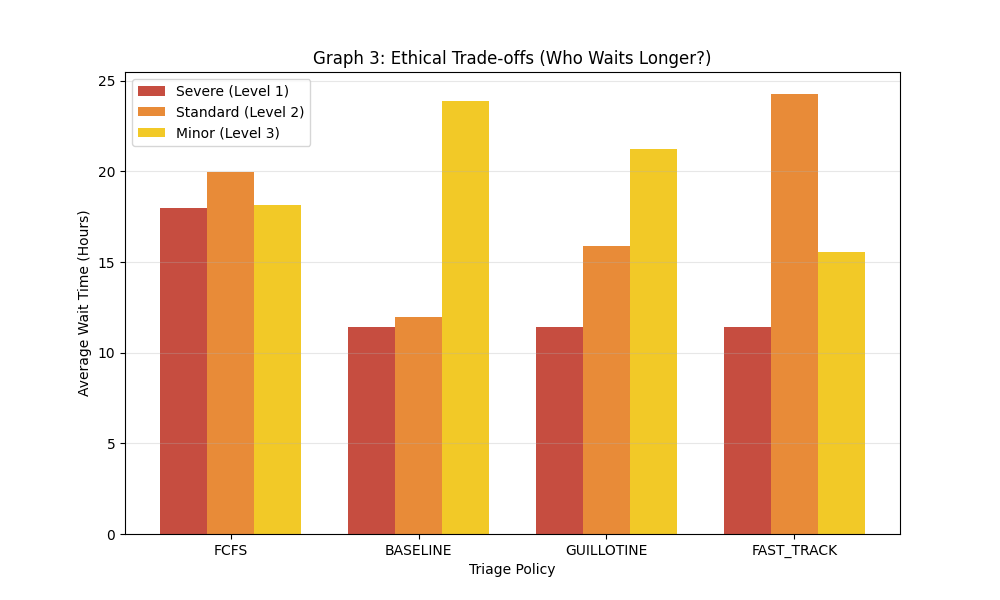
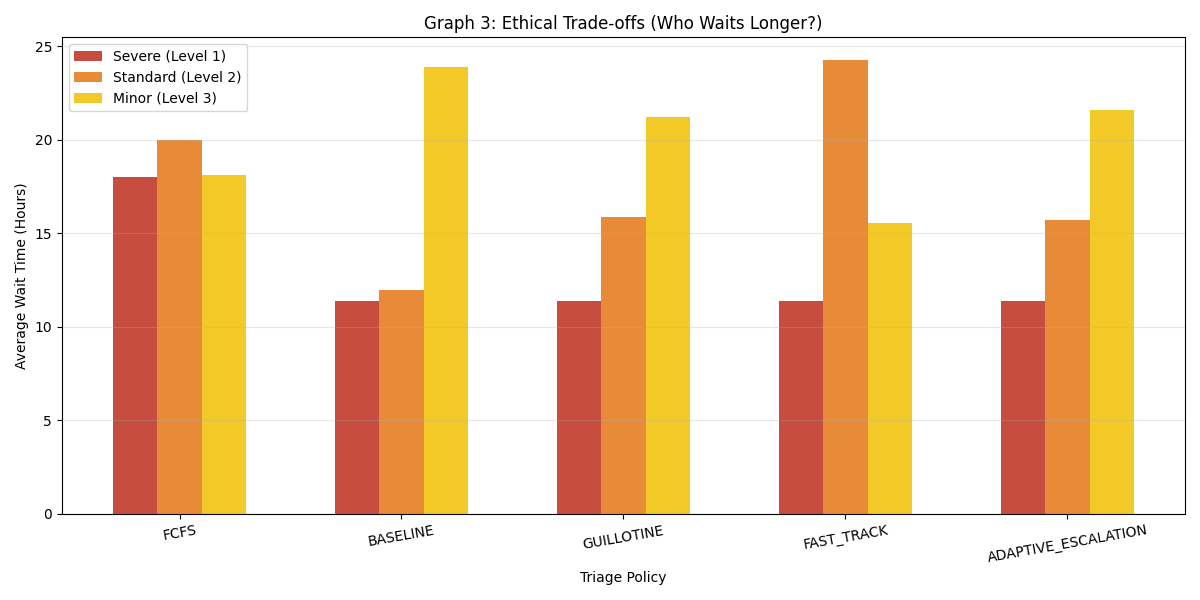
vfinal provincial fair

diff --git a/_v2_engine.py b/_v2_engine.py
@@ -1,7 +1,7 @@
 import random
 import numpy as np
 import matplotlib.pyplot as plt
-import seaborn as sns  # Added for the beautiful density curve
+import seaborn as sns
 from dataclasses import dataclass
 
 # ==========================
@@ -14,6 +14,9 @@ CONFIG = {
     'TRIAGE_ERROR_RATE': 0.10, 
     'SHORT_THRESHOLD': 14.0,   
     'LONG_THRESHOLD': 32.0,    
+    # New policy thresholds
+    'ESCALATION_L2_THRESHOLD': 8,   # L2 escalates after 8h wait
+    'ESCALATION_L3_THRESHOLD': 15,  # L3 escalates after 15h wait
 }
 
 @dataclass
@@ -40,25 +43,25 @@ class EREngineV3:
         self.history_queue_length = [] 
         
     def spawn_patients(self, count, offset_time=None):
-            for _ in range(int(count)):
-                p_id = len(self.queue) + len(self.beds) + len(self.completed)
+        for _ in range(int(count)):
+            p_id = len(self.queue) + len(self.beds) + len(self.completed)
+            
+            true_duration = random.lognormvariate(mu=np.log(10), sigma=0.6)
+            
+            if true_duration > CONFIG['LONG_THRESHOLD']: base_severity = 1
+            elif true_duration < CONFIG['SHORT_THRESHOLD']: base_severity = 3
+            else: base_severity = 2
                 
-                true_duration = random.lognormvariate(mu=np.log(10), sigma=0.6)
+            if random.random() < CONFIG['TRIAGE_ERROR_RATE']:
+                base_severity = random.choice([1, 2, 3])
                 
-                if true_duration > CONFIG['LONG_THRESHOLD']: base_severity = 1
-                elif true_duration < CONFIG['SHORT_THRESHOLD']: base_severity = 3
-                else: base_severity = 2
-                    
-                if random.random() < CONFIG['TRIAGE_ERROR_RATE']:
-                    base_severity = random.choice([1, 2, 3])
-                    
-                arr_time = self.env_time if offset_time is None else offset_time
-                p = Patient(p_id, arr_time, true_duration, base_severity)
+            arr_time = self.env_time if offset_time is None else offset_time
+            p = Patient(p_id, arr_time, true_duration, base_severity)
+            
+            if offset_time is not None:
+                p.wait_time = abs(offset_time)
                 
-                if offset_time is not None:
-                    p.wait_time = abs(offset_time)
-                    
-                self.queue.append(p)
+            self.queue.append(p)
 
     def sort_queue(self):
         if self.policy_mode == "FCFS":
@@ -76,12 +79,31 @@ class EREngineV3:
         elif self.policy_mode == "FAST_TRACK":
             def fast_track_priority(p):
                 if p.perceived_severity == 1: return 1
-                # ANTI-STARVATION FIX: 1.5 priority rescues Standard patients stuck > 24h
                 elif p.perceived_severity == 2 and p.wait_time > 24: return 1.5 
                 elif p.perceived_severity == 3: return 2
                 else: return 3 
                 
             self.queue.sort(key=lambda p: (fast_track_priority(p), -p.wait_time))
+
+        elif self.policy_mode == "ADAPTIVE_ESCALATION":
+            def adaptive_priority(p):
+                # L1: always top priority, no escalation needed
+                if p.perceived_severity == 1:
+                    return (0, -p.wait_time)
+                # L2: escalates to near-L1 priority after 8h
+                elif p.perceived_severity == 2:
+                    if p.wait_time >= CONFIG['ESCALATION_L2_THRESHOLD']:
+                        return (1, -p.wait_time)   # escalated L2
+                    else:
+                        return (2, -p.wait_time)   # standard L2
+                # L3: escalates after 15h, but still behind escalated L2
+                elif p.perceived_severity == 3:
+                    if p.wait_time >= CONFIG['ESCALATION_L3_THRESHOLD']:
+                        return (1.5, -p.wait_time) # escalated L3 (between L2 tiers)
+                    else:
+                        return (3, -p.wait_time)   # standard L3
+
+            self.queue.sort(key=adaptive_priority)
 
     def step(self):
         if self.env_time < len(self.schedule):
@@ -126,8 +148,8 @@ class EREngineV3:
 # 3. RUNNER & 6-GRAPH ANALYTICS
 # ==========================
 def run_v3_experiment(arrival_data):
-    policies = ["FCFS", "BASELINE", "GUILLOTINE", "FAST_TRACK"]
-    colors = ['#95a5a6', '#e74c3c', '#f39c12', '#2ecc71'] # Gray, Red, Orange, Green
+    policies = ["FCFS", "BASELINE", "GUILLOTINE", "FAST_TRACK", "ADAPTIVE_ESCALATION"]
+    colors = ['#95a5a6', '#e74c3c', '#f39c12', '#2ecc71', '#3498db'] # +Blue for new policy
     
     results_map = {}
     queue_history = {}
@@ -175,12 +197,10 @@ def run_v3_experiment(arrival_data):
         print(f"  Overall -> Median: {median:.1f}h | Avg: {avg:.1f}h | Max: {max_w:.1f}h | >24h: {bad_w}")
         print(f"  Critical-> Avg Wait for Severe Patients (Level 1): {crit_avg:.1f}h")
 
-    # ---------------------------------------------------------
     # GRAPH GENERATION (6 GRAPHS)
-    # ---------------------------------------------------------
     
     # Graph 1: The Boxplot
-    plt.figure(figsize=(10, 6))
+    plt.figure(figsize=(11, 6))
     bplot = plt.boxplot([results_map[p] for p in policies], tick_labels=policies, showfliers=False, patch_artist=True)
     for patch, color in zip(bplot['boxes'], colors):
         patch.set_facecolor(color)
@@ -188,10 +208,11 @@ def run_v3_experiment(arrival_data):
     plt.title("Graph 1: Spread of Wait Times (Middle 75%)")
     plt.ylabel("Wait Time (Hours)")
     plt.grid(True, alpha=0.3)
+    plt.tight_layout()
     plt.savefig("Graph1_Boxplot.png")
     
     # Graph 2: Waiting Room Size Over Time
-    plt.figure(figsize=(10, 6))
+    plt.figure(figsize=(11, 6))
     for i, pol in enumerate(policies):
         plt.plot(queue_history[pol], label=pol, linewidth=2, color=colors[i])
     plt.title("Graph 2: Waiting Room Congestion Over Time")
@@ -199,11 +220,12 @@ def run_v3_experiment(arrival_data):
     plt.ylabel("Patients in Waiting Room")
     plt.legend()
     plt.grid(True, alpha=0.3)
+    plt.tight_layout()
     plt.savefig("Graph2_Queue_Size.png")
     
     # Graph 3: Wait Time by Severity Level
-    plt.figure(figsize=(10, 6))
-    bar_width = 0.25
+    plt.figure(figsize=(12, 6))
+    bar_width = 0.2
     index = np.arange(len(policies))
     
     avg_sev1 = [np.mean(severity_waits[p][1]) for p in policies]
@@ -217,13 +239,14 @@ def run_v3_experiment(arrival_data):
     plt.xlabel('Triage Policy')
     plt.ylabel('Average Wait Time (Hours)')
     plt.title('Graph 3: Ethical Trade-offs (Who Waits Longer?)')
-    plt.xticks(index + bar_width, policies)
+    plt.xticks(index + bar_width, policies, rotation=10)
     plt.legend()
     plt.grid(axis='y', alpha=0.3)
+    plt.tight_layout()
     plt.savefig("Graph3_Severity_Tradeoff.png")
 
-    # Graph 4: Cumulative Distribution Function (CDF)
-    plt.figure(figsize=(10, 6))
+    # Graph 4: CDF
+    plt.figure(figsize=(11, 6))
     for i, pol in enumerate(policies):
         sorted_waits = np.sort(results_map[pol])
         yvals = np.arange(1, len(sorted_waits)+1) / len(sorted_waits) * 100
@@ -236,10 +259,11 @@ def run_v3_experiment(arrival_data):
     plt.legend()
     plt.grid(True, alpha=0.3)
     plt.xlim(0, 50) 
+    plt.tight_layout()
     plt.savefig("Graph4_Cumulative_Success.png")
 
-    # Graph 5: The >24h Crisis Bar Chart
-    plt.figure(figsize=(8, 6))
+    # Graph 5: >24h Crisis Bar Chart
+    plt.figure(figsize=(9, 6))
     bad_counts = [sum(1 for w in results_map[p] if w > 24) for p in policies]
     bars = plt.bar(policies, bad_counts, color=colors, alpha=0.9)
     plt.title("Graph 5: The 24-Hour Crisis (Total Patients Stranded)")
@@ -248,11 +272,11 @@ def run_v3_experiment(arrival_data):
         yval = bar.get_height()
         plt.text(bar.get_x() + bar.get_width()/2, yval + 1, int(yval), ha='center', va='bottom', fontweight='bold')
     plt.grid(axis='y', alpha=0.3)
+    plt.tight_layout()
     plt.savefig("Graph5_Crisis_Count.png")
 
-    # Graph 6: Wait Time Density (KDE Curve)
-    
-    plt.figure(figsize=(10, 6))
+    # Graph 6: KDE Density
+    plt.figure(figsize=(11, 6))
     for i, pol in enumerate(policies):
         sns.kdeplot(results_map[pol], label=pol, color=colors[i], linewidth=2.5, fill=True, alpha=0.1)
     plt.title("Graph 6: Density Distribution of Wait Times")
@@ -261,6 +285,7 @@ def run_v3_experiment(arrival_data):
     plt.xlim(0, 50)
     plt.legend()
     plt.grid(True, alpha=0.3)
+    plt.tight_layout()
     plt.savefig("Graph6_Density_Curve.png")
 
     print("\n" + "="*50)

diff --git a/_v2_create_dic.py b/_v2_create_dic.py
@@ -2,57 +2,46 @@ import pandas as pd
 import numpy as np
 import matplotlib.pyplot as plt
 
-def extract_arrival_schedule(file_path, hospital_name="ROYAL VICTORIA"):
-    print(f"--- EXTRACTING REAL ARRIVAL SCHEDULE FOR {hospital_name} ---")
+def extract_arrival_schedule_improved(file_path, hospital_name="ROYAL VICTORIA"):
     df = pd.read_csv(file_path)
     
-    # Filter and Sort
+    # 1. Filter and Clean
     vic = df[df['Nom_installation'].str.contains(hospital_name, case=False, na=False)].copy()
-    
-    # --- THE FIX IS HERE ---
-    # format='mixed' handles variations in the timestamp strings
-    # errors='coerce' turns completely broken strings into NaT (Not a Time)
     vic['Timestamp'] = pd.to_datetime(vic['Mise_a_jour'], format='mixed', errors='coerce')
-    
-    # Drop any rows where the timestamp was completely unreadable
-    vic = vic.dropna(subset=['Timestamp']) 
-    vic = vic.sort_values('Timestamp')
-    # -----------------------
-    
-    # Remove duplicates if any (same hour reported twice)
+    vic = vic.dropna(subset=['Timestamp']).sort_values('Timestamp')
     vic = vic.drop_duplicates(subset=['Timestamp'], keep='last')
     
-    # Calculate Arrivals logic
-    vic['Occupied'] = pd.to_numeric(vic['Nombre_de_civieres_occupees'], errors='coerce').fillna(0)
-    vic['Prev_Occupied'] = vic['Occupied'].shift(1).fillna(vic['Occupied'])
+    # 2. Convert to Numeric
+    metrics = ['Nombre_total_de_patients_presents_a_lurgence', 'Nombre_de_civieres_occupees', 
+               'DMS_sur_civiere', 'DMS_ambulatoire']
+    for m in metrics:
+        vic[m] = pd.to_numeric(vic[m], errors='coerce').fillna(0)
     
-    # Estimate Discharges (Little's Law estimation per step)
-    vic['Est_Discharges'] = vic['Occupied'] / 30.0 
+    # 3. Separate Populations
+    vic['N_stretcher'] = vic['Nombre_de_civieres_occupees']
+    vic['N_ambulatory'] = (vic['Nombre_total_de_patients_presents_a_lurgence'] - vic['N_stretcher']).clip(lower=0)
     
-    # Calculate Raw Arrivals
-    vic['Arrivals_Raw'] = (vic['Occupied'] - vic['Prev_Occupied']) + vic['Est_Discharges']
+    # 4. Calculate Discharges using dynamic DMS (Length of Stay)
+    # If DMS is 0, we use a conservative fallback (24h for stretcher, 4h for walking)
+    vic['Rate_Stretcher'] = 1 / vic['DMS_sur_civiere'].replace(0, 24)
+    vic['Rate_Ambulatory'] = 1 / vic['DMS_ambulatoire'].replace(0, 4)
     
-    # Clean up negatives and noise (smoothing)
-    vic['Arrivals_Clean'] = vic['Arrivals_Raw'].apply(lambda x: max(0, int(round(x))))
+    vic['Est_Discharges'] = (vic['N_stretcher'].shift(1) * vic['Rate_Stretcher'].shift(1)) + \
+                            (vic['N_ambulatory'].shift(1) * vic['Rate_Ambulatory'].shift(1))
     
-    # Save to a simple list/dictionary for the engine
-    arrival_schedule = vic['Arrivals_Clean'].tolist()
+    # 5. The Arrival Formula: (Net Change in Census) + (Outflow)
+    vic['Census_Delta'] = vic['Nombre_total_de_patients_presents_a_lurgence'].diff()
+    vic['Arrivals_Raw'] = vic['Census_Delta'] + vic['Est_Discharges']
     
-    print(f"Extracted {len(arrival_schedule)} hours of data.")
-    print(f"Total Estimated Arrivals: {sum(arrival_schedule)}")
-    print(f"Average Arrivals/Hour: {np.mean(arrival_schedule):.2f}")
+    # Clean noise (round to nearest whole patient, no negatives)
+    vic['Arrivals_Final'] = vic['Arrivals_Raw'].fillna(0).apply(lambda x: int(round(max(0, x))))
     
-    # Plot to verify it looks like a daily cycle
-    plt.figure(figsize=(12, 4))
-    plt.plot(arrival_schedule[:168]) # First week
-    plt.title("Estimated Hourly Arrivals (First 7 Days)")
-    plt.xlabel("Hour")
-    plt.ylabel("New Patients")
-    plt.savefig("arrival_pattern_check.png")
-    print("Saved 'arrival_pattern_check.png'")
+    # Export and Stats
+    print(f"Average Arrivals/Hour: {vic['Arrivals_Final'].mean():.2f}")
+    print(f"Estimated Peak Hourly Arrival: {vic['Arrivals_Final'].max()}")
     
-    return arrival_schedule
+    return vic['Arrivals_Final'].tolist()
 
 if __name__ == "__main__":
-    schedule = extract_arrival_schedule('Quebec_ER_Master_Dataset.csv')
-    print(f"\nCOPY THIS LIST START: {schedule[:40]} ...")
+    schedule = extract_arrival_schedule_improved('Quebec_ER_Master_Dataset.csv')
+    print(f"First 24 hours of arrivals: {schedule[:40]}")
